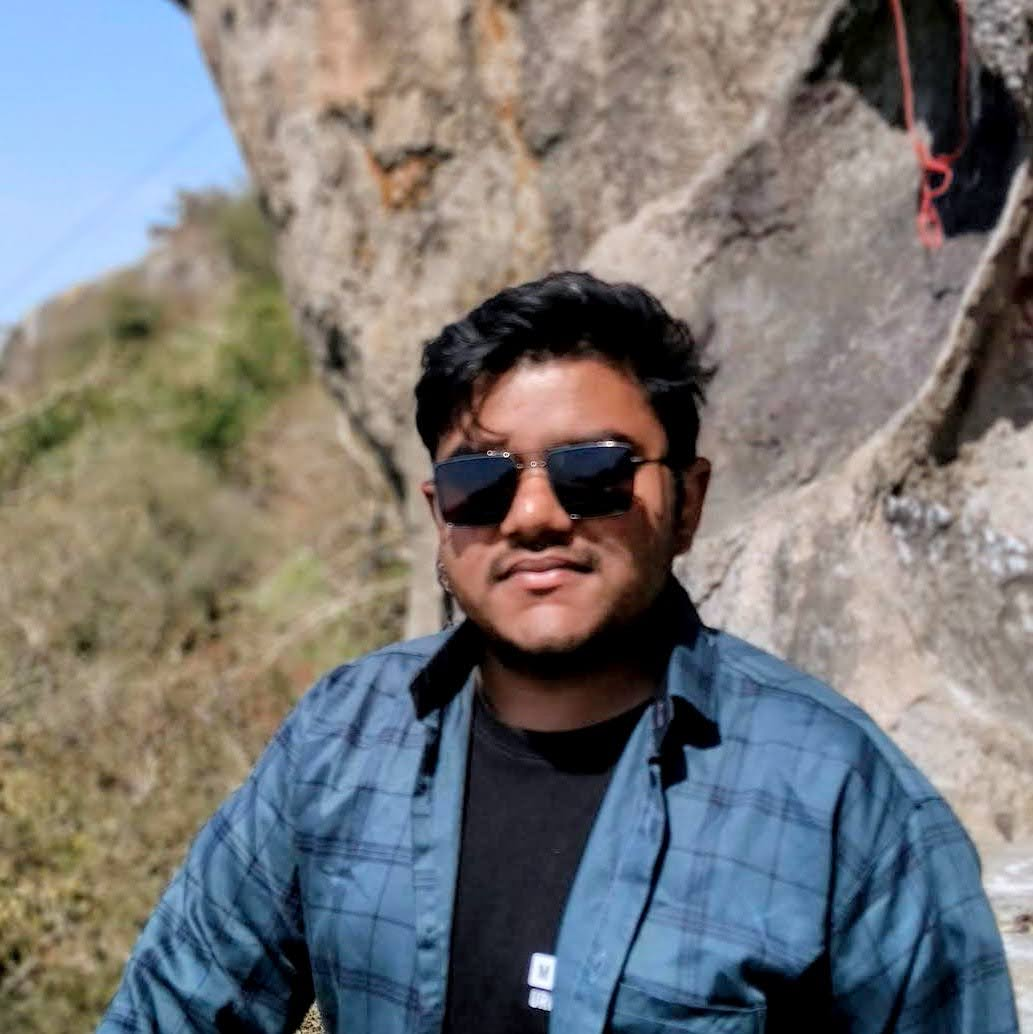
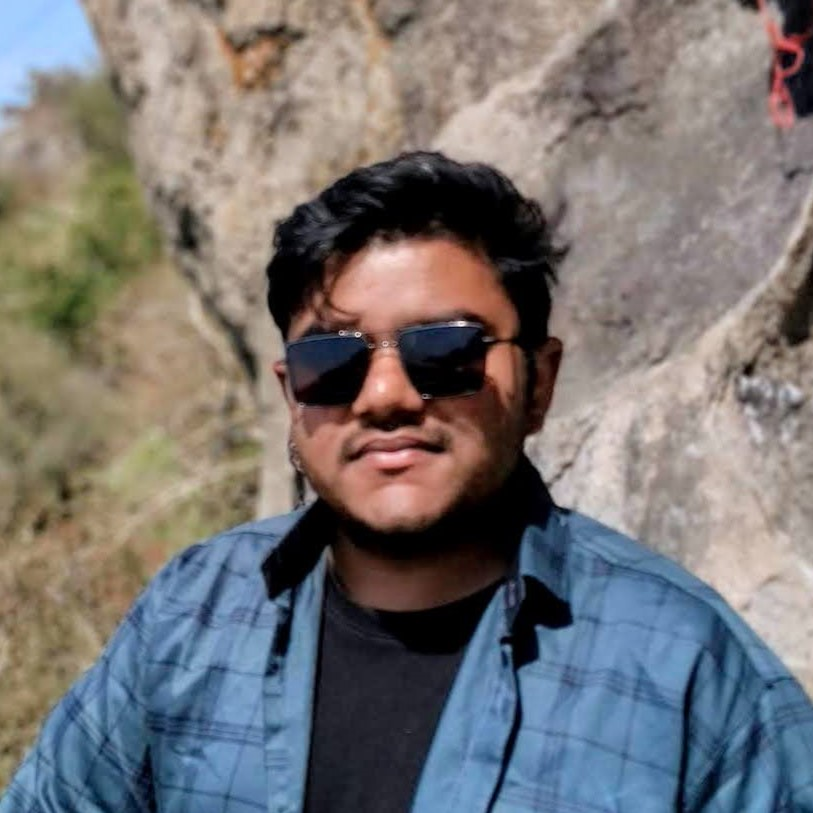
img update

diff --git a/lib/screens/team.dart b/lib/screens/team.dart
@@ -48,7 +48,7 @@ class DevelopersPageState extends State<DevelopersPage> {
                       role: "",
                       email: "kumaranmol@iitgn.ac.in",
                       imageUrl:
-                          "https://raw.githubusercontent.com/anmolkumr/insiit-ui/master/assets/anmol-insiit.jpeg",
+                          "https://raw.githubusercontent.com/anmolkumr/insiit-ui/master/assets/anmol-insiit.jpg",
                     ),
                   ],
                 ),
